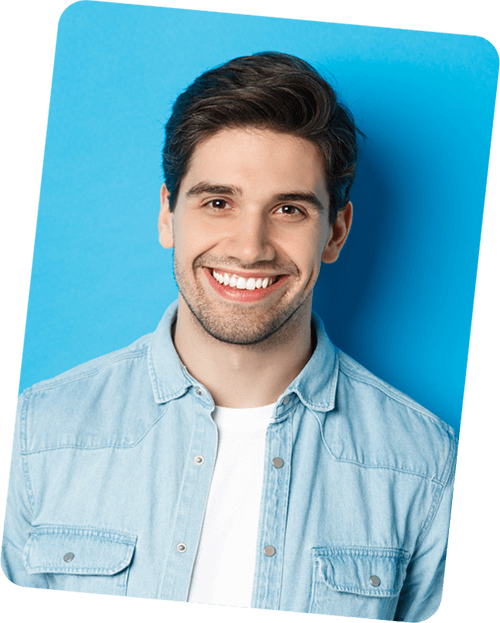
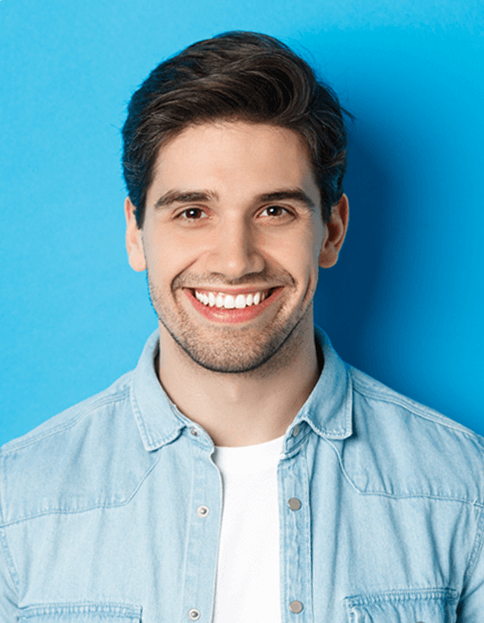
Change images

diff --git a/src/ui-components/Team.vue b/src/ui-components/Team.vue
@@ -1,0 +1,125 @@
+<template>
+  <div>
+    <slot>
+      <div v-for="data in team">
+        <img :src="data.photo" :alt="data.name" />
+        <div class="tooltip">
+          <p class="name">{{ data.name }}</p>
+          <p class="profession">{{ data.profession }}</p>
+        </div>
+      </div>
+    </slot>
+  </div>
+</template>
+
+<script>
+import Albert from "@/assets/image/man-4.png";
+import Samuel from "@/assets/image/man-6.png";
+import Arthur from "@/assets/image/man-3.png";
+import Henry from "@/assets/image/man-1.png";
+import Lucas from "@/assets/image/man-2.png";
+import Isabella from "@/assets/image/man-5.png";
+export default {
+  name: "Team",
+  data() {
+    return {
+      team: [
+        {
+          name: "Albert William",
+          profession: "Project Manager",
+          photo: `${Albert}`,
+        },
+        {
+          name: "Samuel",
+          profession: "Mobile Developer",
+          photo: `${Samuel}`,
+        },
+        {
+          name: "Arthur",
+          profession: "Web Developer",
+          photo: `${Arthur}`,
+        },
+        {
+          name: "Henry",
+          profession: "Web Developer",
+          photo: `${Henry}`,
+        },
+        {
+          name: "Lucas",
+          profession: "Mobile Developer",
+          photo: `${Lucas}`,
+        },
+        {
+          name: "Isabella",
+          profession: "Web Designer",
+          photo: `${Isabella}`,
+        },
+      ],
+    };
+  },
+  mounted() {
+    console.log(this.team);
+  },
+};
+</script>
+
+<style lang="scss" scoped>
+div {
+  position: relative;
+  display: flex;
+  justify-content: center;
+  transform: rotate(10deg);
+  transition: 100ms ease-out;
+  box-shadow: 0px 4px 64px rgba(35, 40, 105, 0.1);
+  border-radius: 20px;
+  &:hover {
+    transform: rotate(0) scale(1.1);
+    .tooltip {
+      display: flex;
+      transform: rotate(0deg);
+      transform: scale(1);
+      opacity: 1;
+    }
+  }
+  img {
+    width: 100%;
+    border-radius: 20px;
+    cursor: pointer;
+  }
+  .tooltip {
+    transition: 400ms;
+    width: 80%;
+    padding: 12px 16px;
+    background-color: var(--main--white);
+    position: absolute;
+    bottom: 20px;
+    border-radius: 8px;
+    display: flex;
+    transform: scale(0.8);
+    opacity: 0;
+    align-items: center;
+    flex-direction: column;
+    .name {
+      font-weight: 600;
+      font-size: 14px;
+      color: var(--greyscale--black);
+      margin-bottom: 5px;
+    }
+    .profession {
+      font-weight: 600;
+      font-size: 14px;
+      color: var(--greyscale--grey);
+      white-space: nowrap;
+    }
+    &::before {
+      content: "";
+      width: 10px;
+      height: 10px;
+      background-color: var(--main--white);
+      position: absolute;
+      top: -5px;
+      transform: rotate(45deg);
+    }
+  }
+}
+</style>

diff --git a/src/components/home/first/Right.vue b/src/components/home/first/Right.vue
@@ -1,78 +1,27 @@
 <template>
-    <div class="home-right">
-        <div class="team">
-            <div v-for="data in team">
-                <img :src="data.photo" :alt="data.name">
-            </div>
-        </div>
-    </div>
+  <div class="home-right">
+    <Team class="team"></Team>
+  </div>
 </template>
 
 <script>
-import Albert from "@/assets/image/man-4.png"
-import Samuel from "@/assets/image/man-6.png"
-import Arthur from "@/assets/image/man-3.png"
-import Henry from "@/assets/image/man-1.png"
-import Lucas from "@/assets/image/man-2.png"
-import Isabella from "@/assets/image/man-5.png"
 export default {
-    name: "Right",
-    data() {
-        return {
-            team: [
-                {
-                    name: "Albert William",
-                    profession: "Project Manager",
-                    photo: `${Albert}`
-                },
-                {
-                    name: "Samuel",
-                    profession: "Mobile Developer",
-                    photo: `${Samuel}`
-                },
-                {
-                    name: "Arthur",
-                    profession: "Web Developer",
-                    photo: `${Arthur}`
-                },
-                {
-                    name: "Henry",
-                    profession: "Senior Web Developer",
-                    photo: `${Henry}`
-                },
-                {
-                    name: "Lucas",
-                    profession: "Senior Mobile Developer",
-                    photo: `${Lucas}`
-                },
-                {
-                    name: "Isabella",
-                    profession: "Senior Web Designer",
-                    photo: `${Isabella}`
-                },
-            ]
-        }
-    },
-    mounted() {
-        console.log(this.team);
-    },
-}
+  name: "Right",
+};
 </script>
 
 <style lang="scss" scoped>
-    .home-right {
-        width: 50%;
-        height: 500px;
-        @media screen and (max-width: 992px) {
-            display: none;
-        }
-        .team {
-            display: grid;
-            grid-template-columns: 1fr 1fr 1fr;
-            gap: 20px;
-            img {
-                width: 190px;
-            }
-        }
-    }
+.home-right {
+  width: 50%;
+  height: 500px;
+  @media screen and (max-width: 992px) {
+    display: none;
+  }
+  .team {
+    display: grid;
+    grid-template-columns: 1fr 1fr 1fr;
+    gap: 30px;
+    width: 90%;
+  }
+}
 </style>

diff --git a/src/components/index.js b/src/components/index.js
@@ -10,5 +10,6 @@ import HomeFirstIndex from "./home/first/Index.vue"
 // UI COMPONENTS
 import PinkButton from "../ui-components/PinkButton.vue"
 import BlueButton from "../ui-components/BlueButton.vue"
+import Team from "../ui-components/Team.vue"
 
-export default [Container, NavbarLarge, NavbarSmall, FooterBottom, PinkButton, BlueButton, HomeFirstIndex]
+export default [Container, NavbarLarge, NavbarSmall, FooterBottom, PinkButton, BlueButton, HomeFirstIndex, Team]
